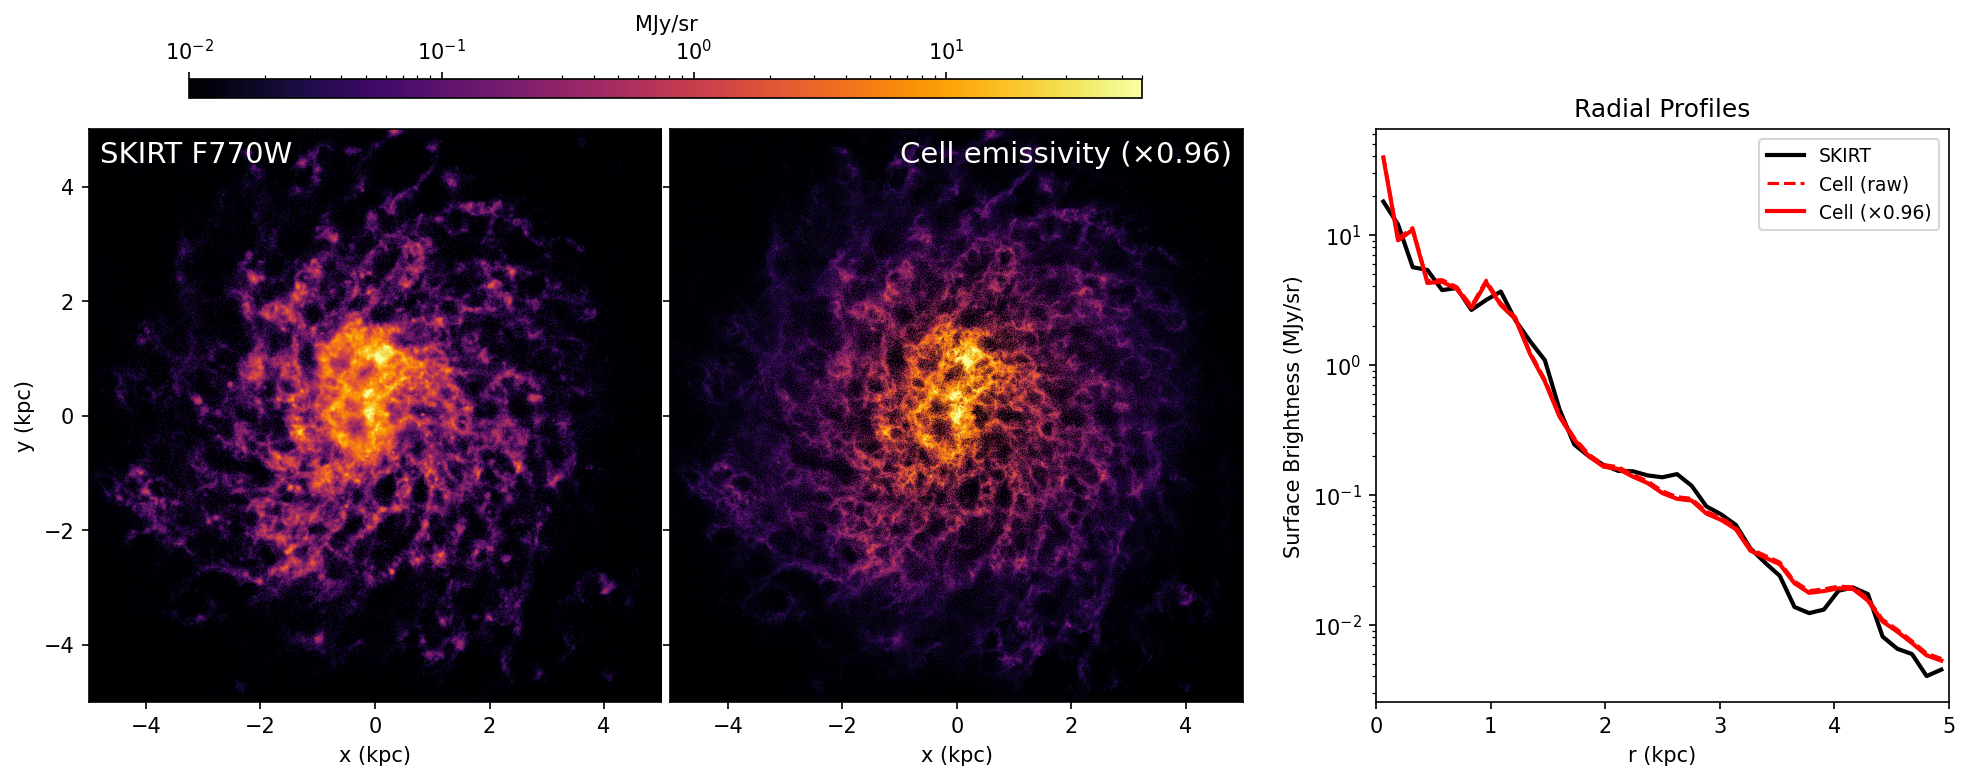
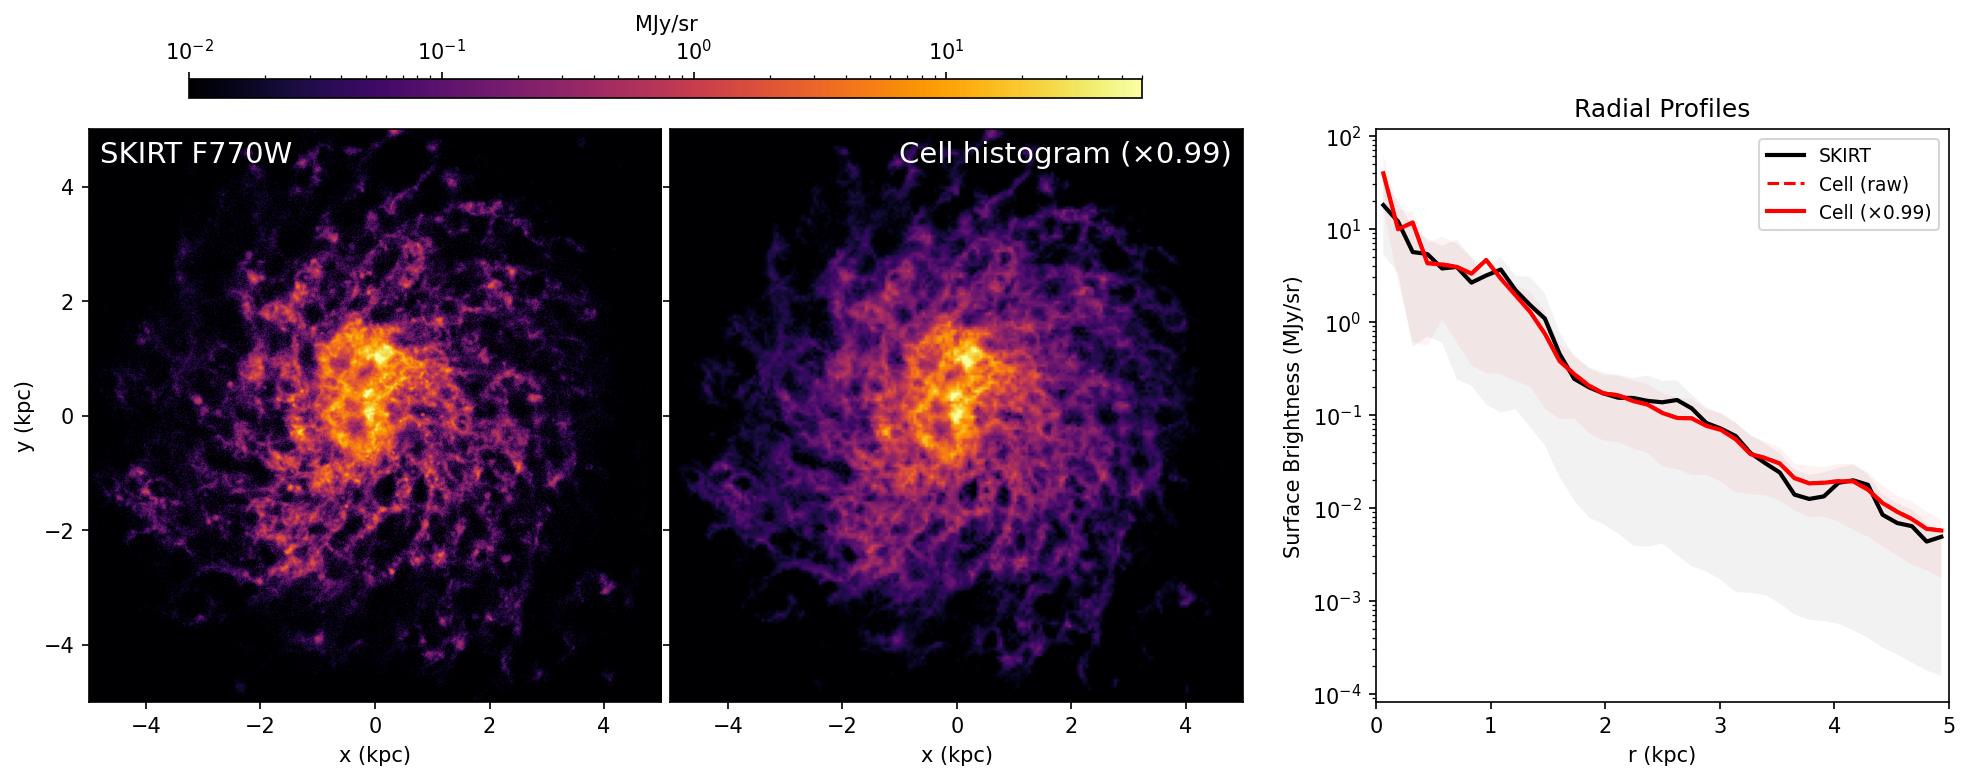
Added vortrace, and the ability to specify npix when validating. Fewer pixels for the histogram (or using vortrace to fully trace the Voronoi mesh) reveals too much diffuse emission in the cell emissivity calculation compared with SKIRT.

diff --git a/validate.py b/validate.py
@@ -8,6 +8,7 @@ Produces a 3-panel figure:
 
 Usage:
     python validate.py
+    python validate.py --vortrace   # use vortrace Voronoi projection
 """
 
 import sys
@@ -26,7 +27,7 @@ from astropy.io import fits
 import pts.band as bnd
 import astropy.units as u
 
-from project import make_projection
+from project import make_projection, make_projection_vortrace
 
 
 def load_skirt_f770w(fits_path):
@@ -70,38 +71,53 @@ def main():
                         help="Field of view in kpc (default: 10)")
     parser.add_argument("--distance", type=float, default=1.0,
                         help="Distance in Mpc (default: 1.0)")
+    parser.add_argument("--vortrace", action="store_true",
+                        help="Use vortrace Voronoi projection instead of histogram")
+    parser.add_argument("--proj_npix", type=int, default=200,
+                        help="Number of pixels for the projection (histogram or vortrace)")
     args = parser.parse_args()
 
     print("Loading SKIRT F770W...")
     skirt_img, npix_skirt = load_skirt_f770w(args.skirt)
     print(f"  SKIRT image: {npix_skirt}x{npix_skirt}, FOV={args.fov} kpc")
+    skirt_img[skirt_img==0] = np.nan
 
-    print("Making cell-based face-on projection...")
-    _, cell_img = make_projection(
+    method = "vortrace" if args.vortrace else "histogram"
+    print(f"Making cell-based face-on projection ({method})...")
+    proj_func = make_projection_vortrace if args.vortrace else make_projection
+    _, cell_img = proj_func(
         args.emissivity,
         inc_deg=0, az_deg=0,
         fov_kpc=args.fov,
-        npix=npix_skirt,
+        npix=args.proj_npix,
         distance_Mpc=args.distance,
     )
     print(f"  Cell image: {cell_img.shape}")
     cell_img = cell_img[:,::-1]
     # cell_img[cell_img == 0] = np.min(cell_img[cell_img > 0])
+    cell_img[cell_img==0] = np.nan
 
     # ── Radial profiles ────────────────────────────────────────────────
     iy, ix = np.mgrid[:npix_skirt, :npix_skirt]
     r_kpc = np.sqrt((ix - npix_skirt/2)**2 + (iy - npix_skirt/2)**2) * args.fov / npix_skirt
+    iy, ix = np.mgrid[:args.proj_npix, :args.proj_npix]
+    r_kpc_cell = np.sqrt((ix - args.proj_npix/2)**2 + (iy - args.proj_npix/2)**2) * args.fov / args.proj_npix
 
     rbins = np.linspace(0, args.fov / 2, 40)
     rcenters = 0.5 * (rbins[:-1] + rbins[1:])
 
     skirt_prof = np.zeros(len(rbins) - 1)
+    skirt_err = np.zeros((len(rbins) - 1, 2))
     cell_prof  = np.zeros(len(rbins) - 1)
+    cell_err = np.zeros((len(rbins) - 1, 2))
 
     for i in range(len(rbins) - 1):
         mask = (r_kpc >= rbins[i]) & (r_kpc < rbins[i+1])
         skirt_prof[i] = np.nanmean(skirt_img[mask]) if np.any(mask) else np.nan
+        skirt_err[i] = [np.nanpercentile(skirt_img[mask],q) for q in [16,84]]
+        mask = (r_kpc_cell >= rbins[i]) & (r_kpc_cell < rbins[i+1])
         cell_prof[i] = np.nanmean(cell_img[mask]) if np.any(mask) else np.nan
+        cell_err[i] = [np.nanpercentile(cell_img[mask],q) for q in [16,84]]
 
     # Fit calibration factor using inner region (r < 5 kpc)
     inner = (rcenters < 5) & np.isfinite(skirt_prof) & np.isfinite(cell_prof) & (cell_prof > 0)
@@ -139,7 +155,7 @@ def main():
     # Panel 1: SKIRT
     ax = axes[0]
     skirt_img_fill = np.copy(skirt_img)
-    skirt_img_fill[skirt_img==0] = np.min(skirt_img[skirt_img>0])
+    skirt_img_fill[~np.isfinite(skirt_img)] = np.min(skirt_img[skirt_img>0])
     im = ax.imshow(skirt_img_fill, origin="lower", extent=extent,
                 norm=LogNorm(vmin=vmin, vmax=vmax), cmap="inferno")
     ax.set_xlim(-zoom_kpc/2, zoom_kpc/2)
@@ -151,14 +167,15 @@ def main():
     # Panel 2: Cell-based (scaled by alpha)
     ax = axes[1]
     cell_img_fill = np.copy(cell_img * alpha)
-    cell_img_fill[cell_img==0] = np.min(cell_img[cell_img>0])
+    cell_img_fill[~np.isfinite(cell_img)] = np.min(cell_img[cell_img>0])
     ax.imshow(cell_img_fill, origin="lower", extent=extent,
             norm=LogNorm(vmin=vmin, vmax=vmax), cmap="inferno")
     ax.set_xlim(-zoom_kpc/2, zoom_kpc/2)
     ax.set_ylim(-zoom_kpc/2, zoom_kpc/2)
     ax.set_xlabel("x (kpc)")
     ax.set_ylabel("")
-    ax.text(0.98,0.98,f"Cell emissivity (×{alpha:.2f})",va='top',ha='right',transform=ax.transAxes,c='w',fontsize=14)
+    label = f"Cell {'vortrace' if args.vortrace else 'histogram'} (×{alpha:.2f})"
+    ax.text(0.98,0.98,label,va='top',ha='right',transform=ax.transAxes,c='w',fontsize=14)
     ax.set_yticklabels([])
 
     fig.colorbar(im, ax=axes[:2], location='top', label="MJy/sr", fraction=0.03, pad=0.05, aspect=50)
@@ -166,8 +183,10 @@ def main():
     # Panel 3: Radial profiles
     ax = axes[-1]
     ax.semilogy(rcenters, skirt_prof, "k-", lw=2, label="SKIRT")
+    ax.fill_between(rcenters, *skirt_err.T, ec='none', fc = 'k', alpha=0.05)
     ax.semilogy(rcenters, cell_prof, "r--", lw=1.5, label="Cell (raw)")
     ax.semilogy(rcenters, cell_prof * alpha, "r-", lw=2, label=f"Cell (×{alpha:.2f})")
+    ax.fill_between(rcenters, *(cell_err * alpha).T, ec='none', fc='r', alpha=0.05)
     ax.set_xlabel("r (kpc)")
     ax.set_ylabel("Surface Brightness (MJy/sr)")
     ax.set_title("Radial Profiles")

diff --git a/project.py b/project.py
@@ -2,13 +2,15 @@
 Project per-cell 7.7 um emissivities onto 2D images from arbitrary viewing angles.
 
 Usage:
-    python project.py                          # face-on
+    python project.py                          # face-on (histogram)
     python project.py --inc 27 --az 0          # IC 5332 inclination
     python project.py --inc 60 --az 45         # arbitrary view
+    python project.py --vortrace               # Voronoi projection (requires vortrace)
 """
 
 import numpy as np
 import h5py
+import time
 import matplotlib.pyplot as plt
 from matplotlib.colors import LogNorm
 import argparse
@@ -111,6 +113,89 @@ def make_projection(h5_path, inc_deg=0, az_deg=0,
     return image_lum, image_MJy_sr
 
 
+def make_projection_vortrace(h5_path, inc_deg=0, az_deg=0,
+                             fov_kpc=10.0, npix=512, distance_Mpc=8.84):
+    """Project cell emissivities using vortrace Voronoi line integration.
+
+    Unlike the histogram method, this traces rays through the Voronoi mesh
+    and integrates emissivity density along each line of sight, properly
+    handling the cell geometry.
+
+    Parameters
+    ----------
+    h5_path : str
+        Path to emissivity HDF5 file from compute_emissivity.py
+    inc_deg, az_deg : float
+        Viewing angles in degrees (0,0 = face-on)
+    fov_kpc : float
+        Field of view (side length) in kpc
+    npix : int
+        Number of pixels per side
+    distance_Mpc : float
+        Distance to galaxy in Mpc (for converting to MJy/sr)
+
+    Returns
+    -------
+    image_lum : (npix, npix) array
+        Surface brightness in erg/s/kpc^2
+    image_MJy_sr : (npix, npix) array
+        Surface brightness in MJy/sr
+    """
+    import vortrace as vt
+
+    # Load emissivity data and cell volumes
+    with h5py.File(h5_path, "r") as f:
+        pos     = f["gas/pos"][:]      # (N, 3) kpc, centered on stellar COM
+        j_77    = f["gas/j_77"][:]     # (N,) erg/s
+        vol_kpc3 = f["gas/volume"][:]  # (N,) kpc^3
+
+    # Emissivity density: erg/s/kpc^3
+    j_density = j_77 / vol_kpc3
+
+    # Set up vortrace projection cloud
+    half = fov_kpc / 2.0
+    depth = half  # kpc, integration depth (equal to fov)
+    # bbox = [pos[:, 0].min(), pos[:, 0].max(),
+    #         pos[:, 1].min(), pos[:, 1].max(),
+    #         pos[:, 2].min(), pos[:, 2].max()]
+    bbox = [-fov_kpc, fov_kpc,
+            -fov_kpc, fov_kpc,
+            -fov_kpc, fov_kpc]
+
+    print("Building projection cloud...")
+    stime = time.time()
+    pc = vt.ProjectionCloud(pos, j_density, boundbox=bbox, vol=vol_kpc3)
+    print("done ({:.2f} s)".format(time.time() - stime))
+
+    # Grid extent and integration bounds (centered on origin)
+    extent = [-half, half]
+    bounds = [-depth, depth]
+    center = [0.0, 0.0, 0.0]
+
+    # vortrace uses Tait-Bryan angles: yaw = azimuth, pitch = inclination
+    yaw   = np.radians(az_deg)
+    pitch = np.radians(inc_deg)
+
+    print("Making grid projection...")
+    stime = time.time()
+    image = pc.grid_projection(extent, npix, bounds, center,
+                               yaw=yaw, pitch=pitch,
+                               reduction='integrate')
+    print("done ({:.2f} s)".format(time.time() - stime))
+
+    # image is in erg/s/kpc^2 (line integral of erg/s/kpc^3 over kpc)
+    image_lum = image.T  # transpose to (y, x) for imshow
+
+    # Convert to MJy/sr
+    D_cm = distance_Mpc * Mpc_cm
+    pixel_kpc = fov_kpc / npix
+    pixel_sr = (pixel_kpc * kpc_cm / D_cm)**2
+    image_MJy_sr = image_lum * pixel_kpc**2 / (
+        4.0 * np.pi * D_cm**2 * DELTA_NU_77) / pixel_sr / MJy_cgs
+
+    return image_lum, image_MJy_sr
+
+
 def plot_projection(image_MJy_sr, fov_kpc=10.0, inc_deg=0, az_deg=0,
                     vmin=None, vmax=None, out_path=None):
     """Plot a single projection image."""
@@ -155,10 +240,17 @@ def main():
     parser.add_argument("--npix", type=int, default=512, help="Pixels per side")
     parser.add_argument("--dist", type=float, default=8.84, help="Distance in Mpc")
     parser.add_argument("-o", "--output", default=None, help="Output PNG path")
+    parser.add_argument("--vortrace", action="store_true",
+                        help="Use vortrace Voronoi projection (requires vortrace)")
     args = parser.parse_args()
 
-    _, image_MJy_sr = make_projection(
-        args.h5, args.inc, args.az, args.fov, args.npix, args.dist)
+    if args.vortrace:
+        _, image_MJy_sr = make_projection_vortrace(
+            args.h5, args.inc, args.az,
+            args.fov, args.npix, args.dist)
+    else:
+        _, image_MJy_sr = make_projection(
+            args.h5, args.inc, args.az, args.fov, args.npix, args.dist)
 
     out = args.output or f"proj_inc{args.inc:.0f}_az{args.az:.0f}.png"
     plot_projection(image_MJy_sr, args.fov, args.inc, args.az, out_path=out)

diff --git a/compute_emissivity.py b/compute_emissivity.py
@@ -142,7 +142,10 @@ def load_snapshot(path):
     code_time_to_myr = kpc_cm / 1e5 / (3.156e7 * 1e6)  # 977.8
     star_ages_myr = (header_time - star_gage) * code_time_to_myr
 
-    return (gas_pos, gas_mass, gas_Z, gas_temp, gas_rho,
+    # Cell volumes in kpc^3: V = M / ρ in cgs, then convert to kpc^3
+    gas_vol = gas_mass * Msun_g / gas_rho / kpc_cm**3  # kpc^3
+
+    return (gas_pos, gas_mass, gas_Z, gas_temp, gas_rho, gas_vol,
             star_pos, star_mass, star_Z, star_ages_myr)
 
 
@@ -349,7 +352,7 @@ def main():
     _init_bpass(args.bpass)
 
     # Load data
-    (gas_pos, gas_mass, gas_Z, gas_temp, gas_rho,
+    (gas_pos, gas_mass, gas_Z, gas_temp, gas_rho, gas_vol,
      star_pos, star_mass, star_Z, star_ages_myr) = load_snapshot(args.snap)
 
     print(f"Gas cells: {len(gas_mass)}, Stars: {len(star_mass)}")
@@ -417,6 +420,7 @@ def main():
         g.create_dataset("metallicity", data=gas_Z, dtype=np.float32)
         g.create_dataset("f_att", data=f_att, dtype=np.float32)
         g.create_dataset("tau_fuv", data=tau_fuv, dtype=np.float32)
+        g.create_dataset("volume", data=gas_vol, dtype=np.float32)
 
         m = f.create_group("meta")
         m.attrs["C_77"] = C_77

diff --git a/README.md b/README.md
@@ -4,7 +4,7 @@ Fast mock JWST MIRI F770W images from Arepo/SMUGGLE galaxy simulations — no ra
 
 ## Overview
 
-This code computes a per-gas-cell 7.7 μm emissivity from an Arepo/SMUGGLE snapshot, enabling instant mock JWST MIRI F770W images from arbitrary viewing angles via 2D histogram projection. It replaces expensive SKIRT radiative transfer (~10 hr) with a ~75 second calculation.
+This code computes a per-gas-cell 7.7 μm emissivity from an Arepo/SMUGGLE snapshot, enabling instant mock JWST MIRI F770W images from arbitrary viewing angles via 2D histogram projection or [vortrace](https://github.com/gusbeane/vortrace) Voronoi line integration. It replaces expensive SKIRT radiative transfer (~10 hr) with a ~75 second calculation.
 
 The key physics:
 
@@ -47,8 +47,9 @@ export PTS_PATH=/path/to/PTS
 python3 compute_emissivity.py --snap /path/to/snapshot.hdf5 --bpass /path/to/bpass-spectra.hdf5
 
 # 2. Project to a 2D image at any viewing angle
-python3 project.py --inc 0 --az 0          # face-on
+python3 project.py --inc 0 --az 0          # face-on (histogram)
 python3 project.py --inc 90 --az 0         # edge-on
+python3 project.py --vortrace --inc 27     # Voronoi projection (requires vortrace)
 
 # 3. Validate against SKIRT (optional, requires PTS)
 python3 validate.py --skirt /path/to/skirt_output_total.fits
@@ -63,7 +64,7 @@ All scripts accept `--help` for full argument documentation.
 | Script | Purpose |
 |--------|---------|
 | `compute_emissivity.py` | Reads Arepo snapshot, computes FUV radiation field and per-cell 7.7 μm emissivity, saves to HDF5 |
-| `project.py` | Projects emissivities onto 2D images at arbitrary (inclination, azimuth), outputs MJy/sr surface brightness |
+| `project.py` | Projects emissivities onto 2D images at arbitrary (inclination, azimuth) via histogram or vortrace Voronoi integration (`--vortrace`), outputs MJy/sr surface brightness |
 | `validate.py` | Compares face-on projection against SKIRT F770W output with radial profiles |
 | `validate_all.py` | Multi-angle validation against 5 SKIRT instruments (face-on, zoom, IC 5332, inc=60°, edge-on) |
 | `compare_rf.py` | Compares geometric U-field against SKIRT `RadiationFieldProbe` output |
@@ -121,6 +122,7 @@ Other notable settings:
 | `/gas/metallicity` | (N,) | Absolute metallicity |
 | `/gas/f_att` | (N,) | Sobolev attenuation factor (0–1) |
 | `/gas/tau_fuv` | (N,) | FUV optical depth through cell |
+| `/gas/volume` | (N,) | Cell volume in kpc³ |
 
 Metadata in `/meta/` stores all physics parameters for reproducibility.
 
@@ -143,6 +145,9 @@ Inner galaxy (r < 5 kpc) shows excellent agreement (α ≈ 1). The outer galaxy 
 ## Dependencies
 
 Python packages (see `requirements.txt`): numpy, scipy, h5py, matplotlib, astropy
+
+Optional:
+- [vortrace](https://github.com/gusbeane/vortrace) — Voronoi mesh line integration for `project.py --vortrace`
 
 External data/tools:
 - [BPASS v2](https://bpass.auckland.ac.nz/) binary spectra table (for FUV luminosities)
